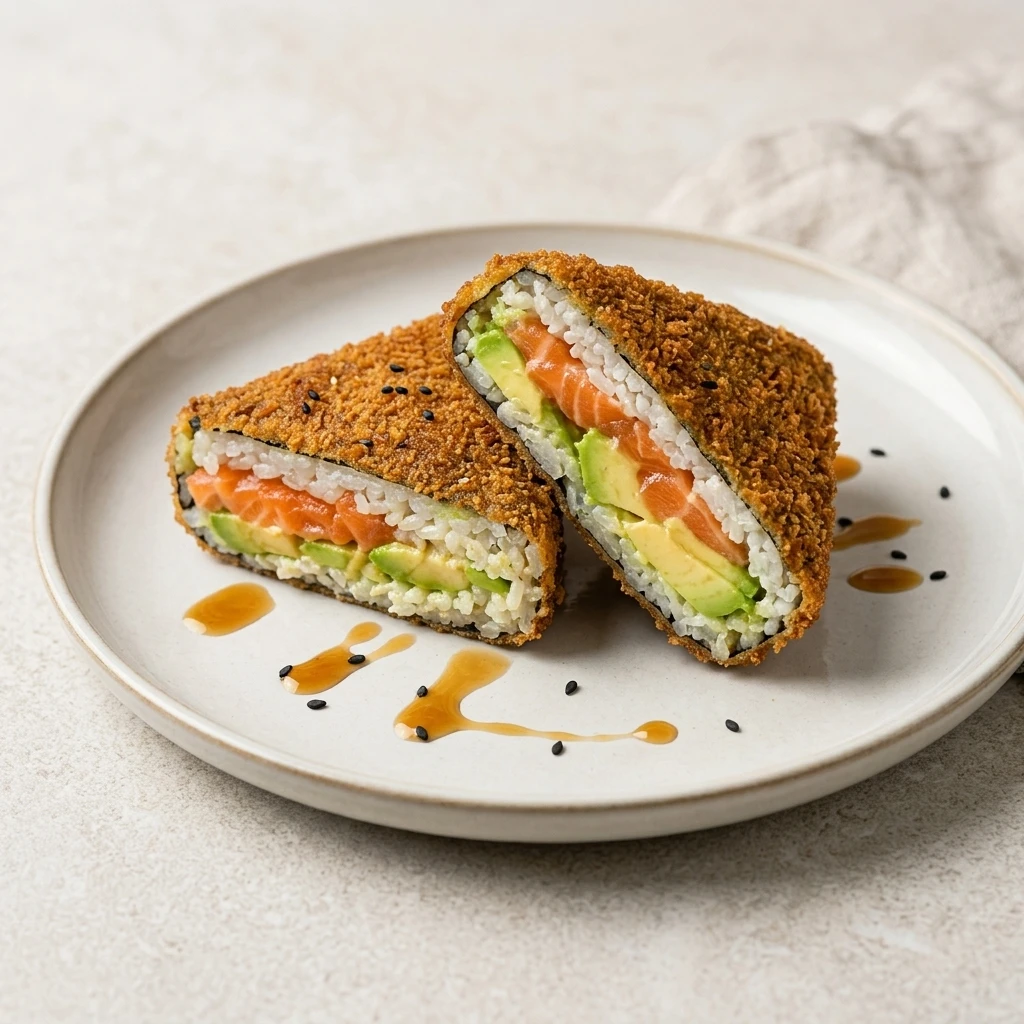
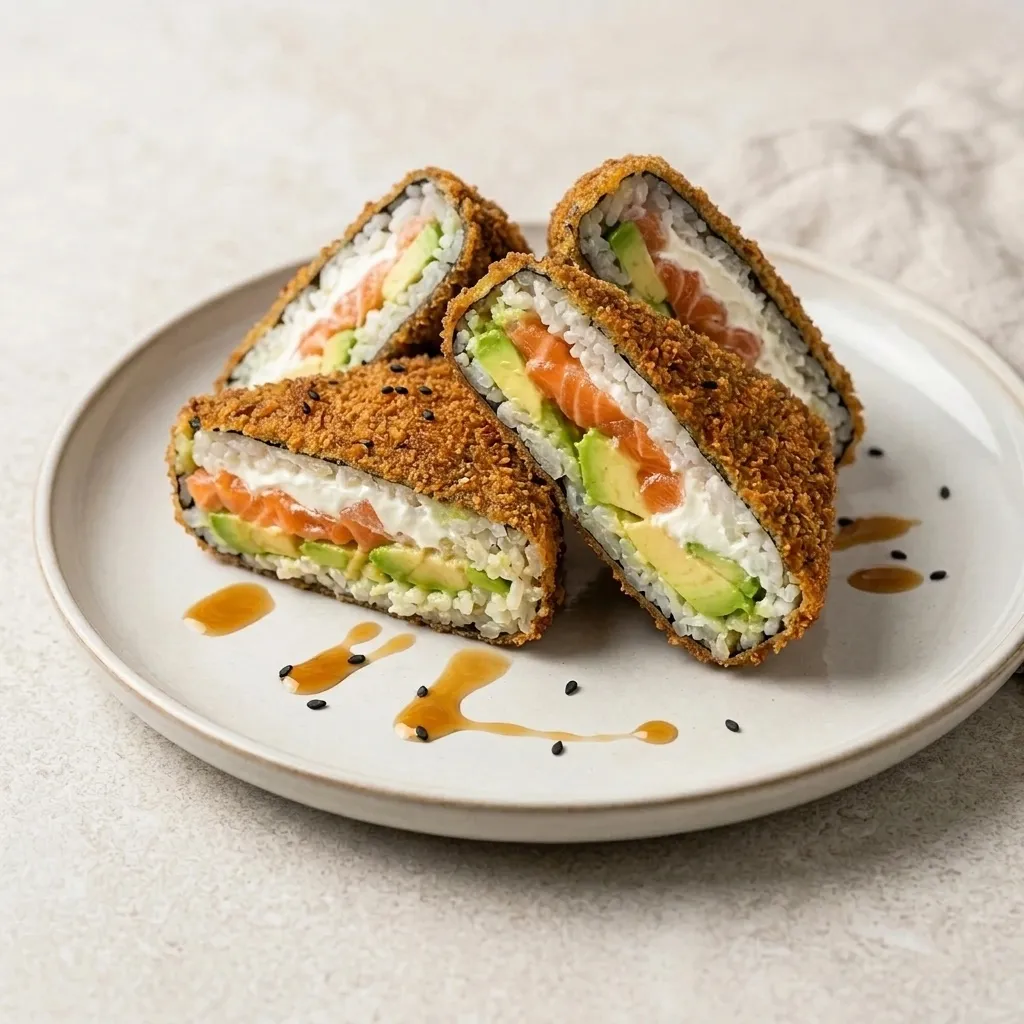
feat: actualizar porciones y descripcion de triangulitos rebozados

Changed region(s): [[0.1562, 0.125, 0.9688, 0.5625], [0.5938, 0.375, 0.75, 0.5625], [0.5625, 0.3438, 0.5938, 0.375]]

diff --git a/app.js b/app.js
@@ -822,7 +822,7 @@ function renderCartItems(animate = false) {
           ${item.categoria ? CAT_LABEL[item.categoria] || item.categoria : ''} · 
           ${item.id === 'poke-salad' ? 'Bowl individual' : 
             (item.id === 'sushi-burgers' ? '1 unidad' : 
-             (item.id === 'triangulitos-rebozados' ? 'Porción de 2 unidades' : 'Tubo de 10 piezas'))}
+             (item.id === 'triangulitos-rebozados' ? 'Porción de 4 unidades' : 'Tubo de 10 piezas'))}
         </p>
       </div>
       <div class="cart-item-controls">
@@ -1040,7 +1040,7 @@ function buildCard(product) {
       <span class="card-presentation">
         ${product.id === 'poke-salad' ? 'Presentación: Bowl individual' : 
           (product.id === 'sushi-burgers' ? 'Presentación: Porción de 1 unidad' : 
-           (product.id === 'triangulitos-rebozados' ? 'Presentación: Porción de 2 unidades' : 'Presentación: Tubo de 10 piezas'))}
+           (product.id === 'triangulitos-rebozados' ? 'Presentación: Porción de 4 unidades' : 'Presentación: Tubo de 10 piezas'))}
       </span>
       <div class="card-tags">${tagsHtml}</div>
     </div>

diff --git a/product-detail.js b/product-detail.js
@@ -516,7 +516,7 @@ function renderCartItems(animate = false) {
           ${item.categoria ? CAT_LABEL[item.categoria] || item.categoria : ''} · 
           ${item.id === 'poke-salad' ? 'Bowl individual' : 
             (item.id === 'sushi-burgers' ? '1 unidad' : 
-             (item.id === 'triangulitos-rebozados' ? 'Porción de 2 unidades' : 'Tubo de 10 piezas'))}
+             (item.id === 'triangulitos-rebozados' ? 'Porción de 4 unidades' : 'Tubo de 10 piezas'))}
         </p>
       </div>
       <div class="cart-item-controls">
@@ -779,7 +779,7 @@ async function loadProductDetail() {
       } else if (currentProduct.id === 'sushi-burgers') {
         helperText.textContent = '1 porción = 1 Sushi Burger';
       } else if (currentProduct.id === 'triangulitos-rebozados') {
-        helperText.textContent = '1 porción = 2 Triangulitos Rebozados';
+        helperText.textContent = '1 porción = 4 Triangulitos Rebozados';
       } else {
         helperText.textContent = '1 unidad = 1 Tubo de 10 piezas';
       }
